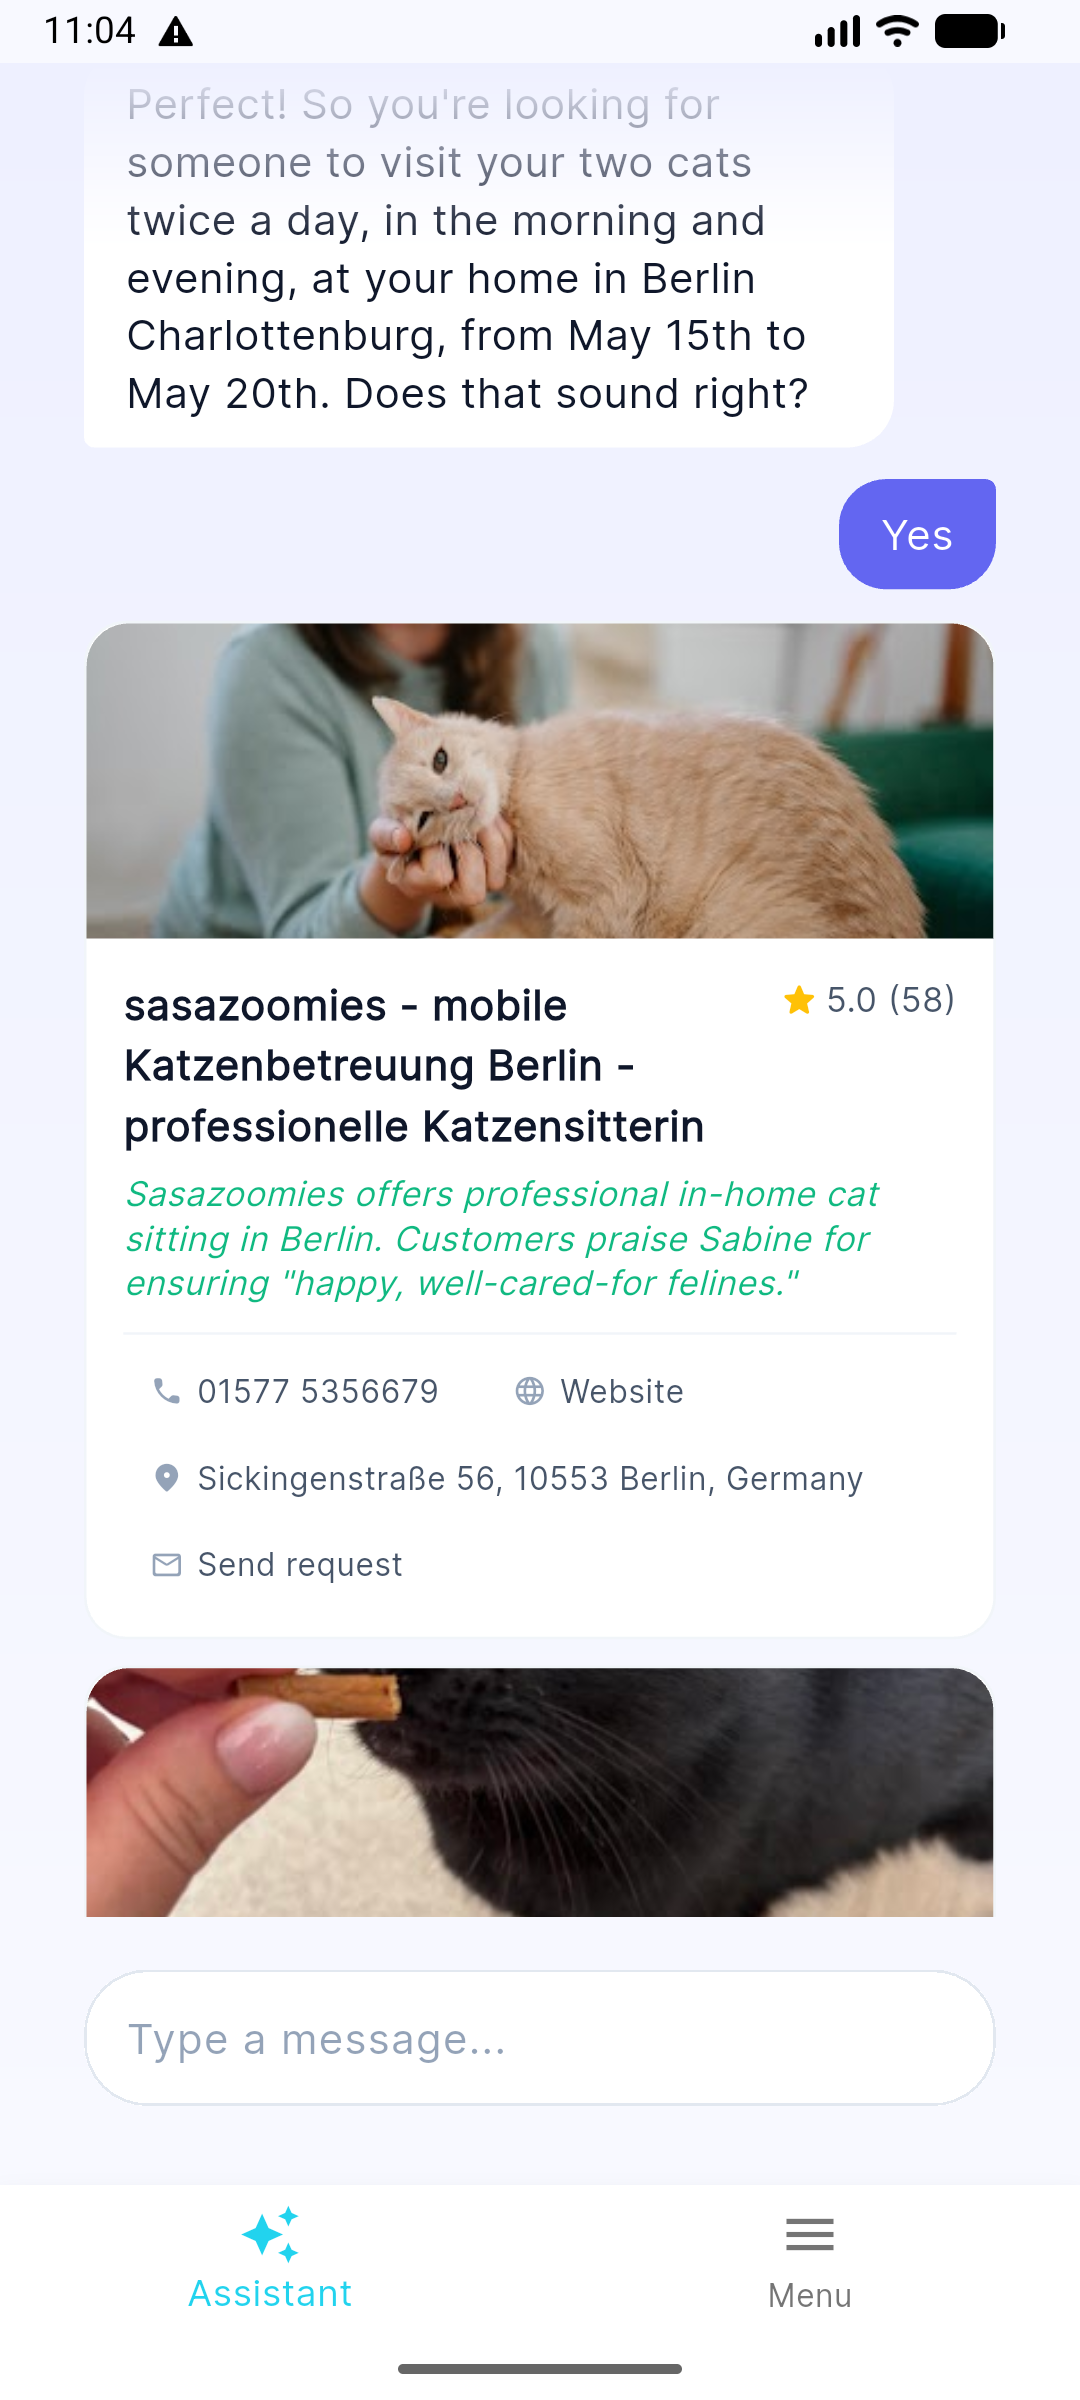
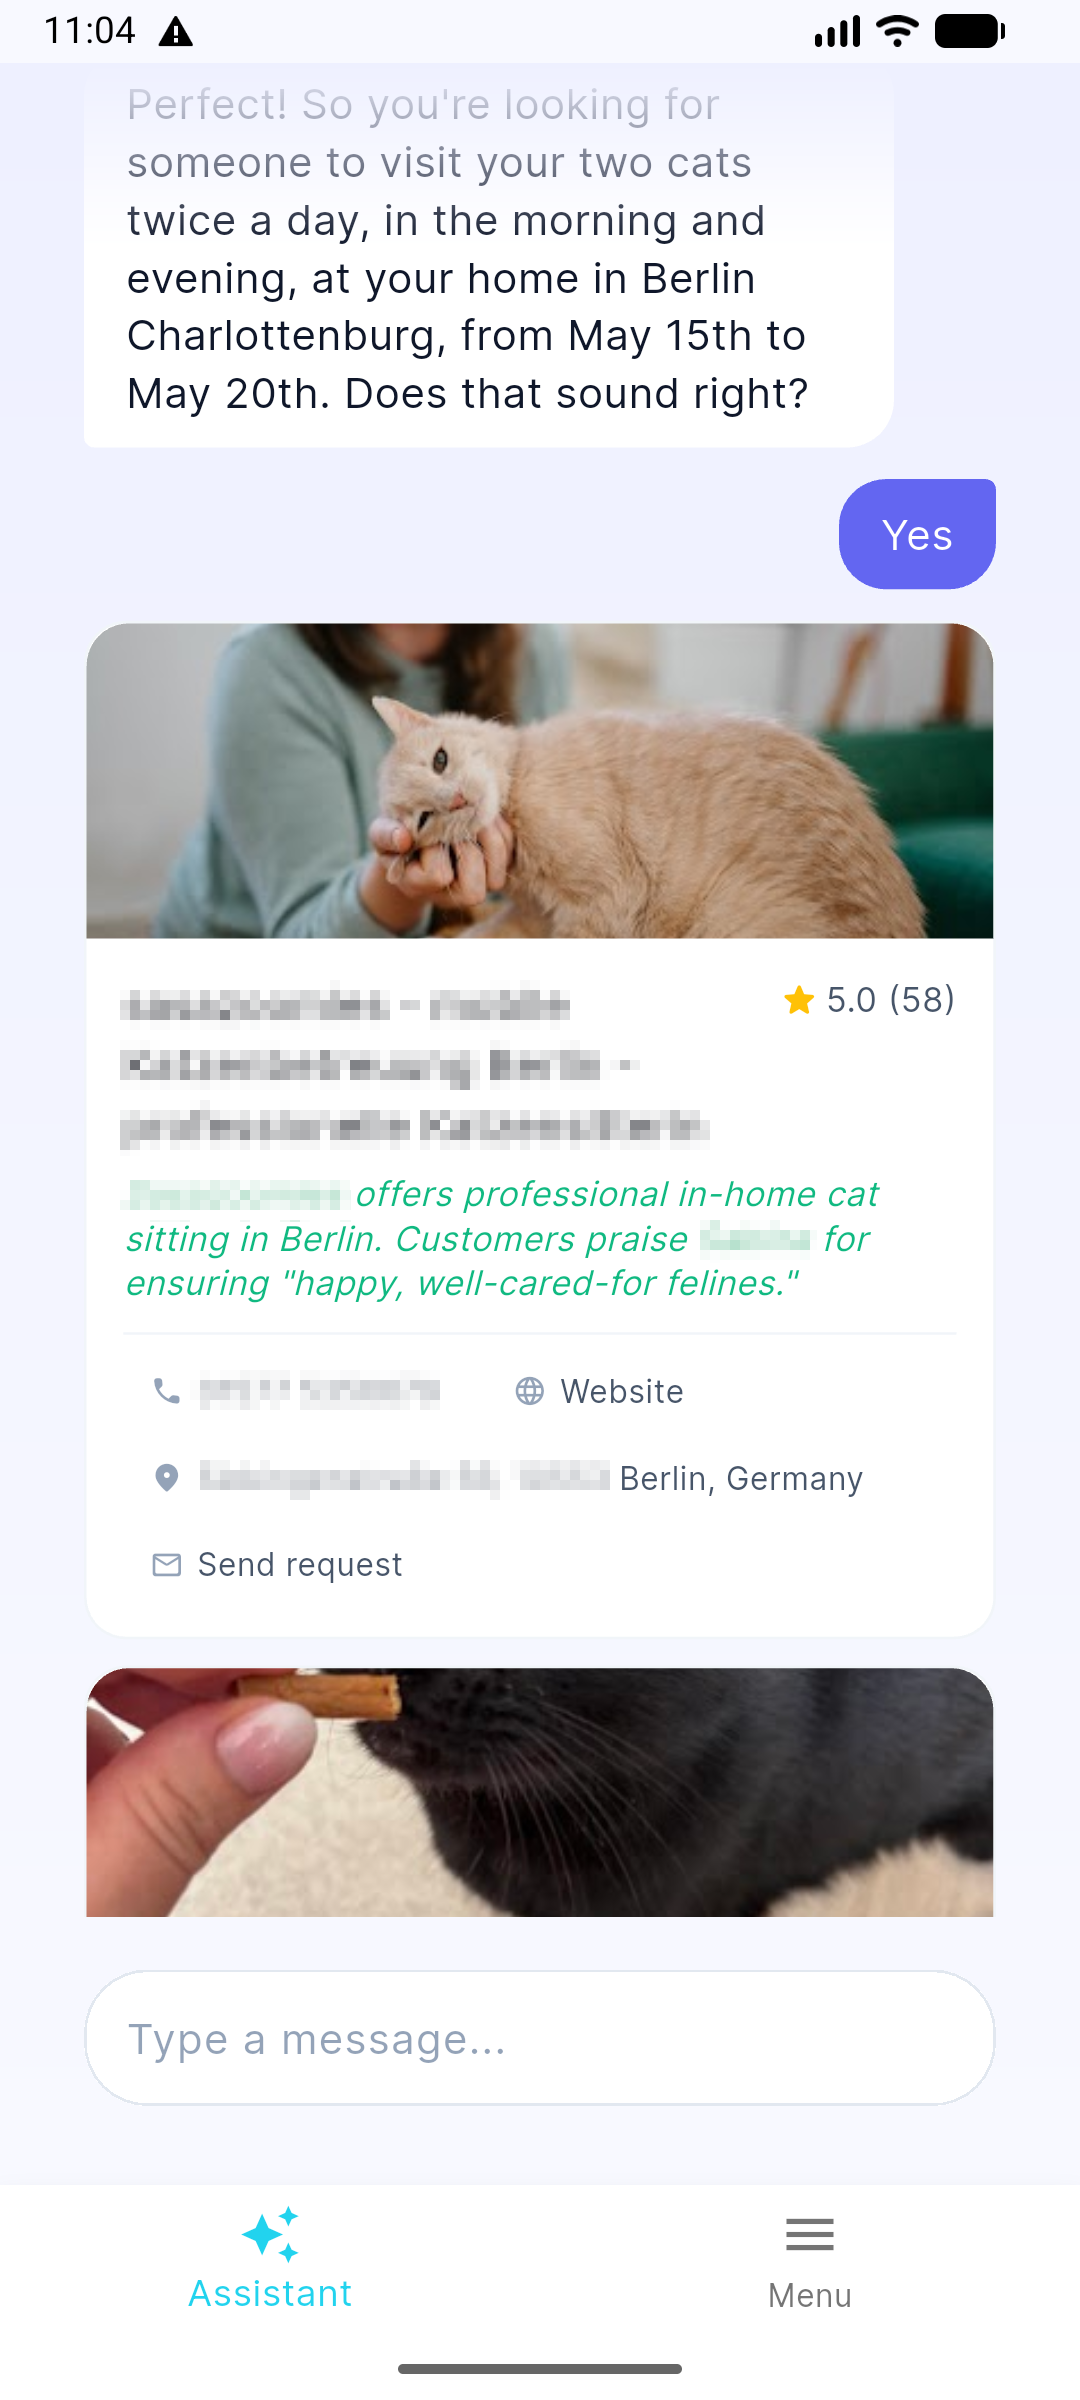
Annomyzed example screenshots

diff --git a/README.md b/README.md
@@ -43,7 +43,7 @@ Linkora is a production-ready platform that lets users find local service provid
     <td align="center" width="25%">
       <img src="docs/assets/Linkora-Lite-Assistant-Results.png" alt="Search Results – Lite Mode" width="180"><br>
       <sub><b>Results · Lite Mode</b></sub><br>
-      <sub>AI-curated provider cards with contact &amp; request actions</sub>
+      <sub>AI-curated provider cards with contact &amp; request actions (results anonymized)</sub>
     </td>
   </tr>
 </table>
